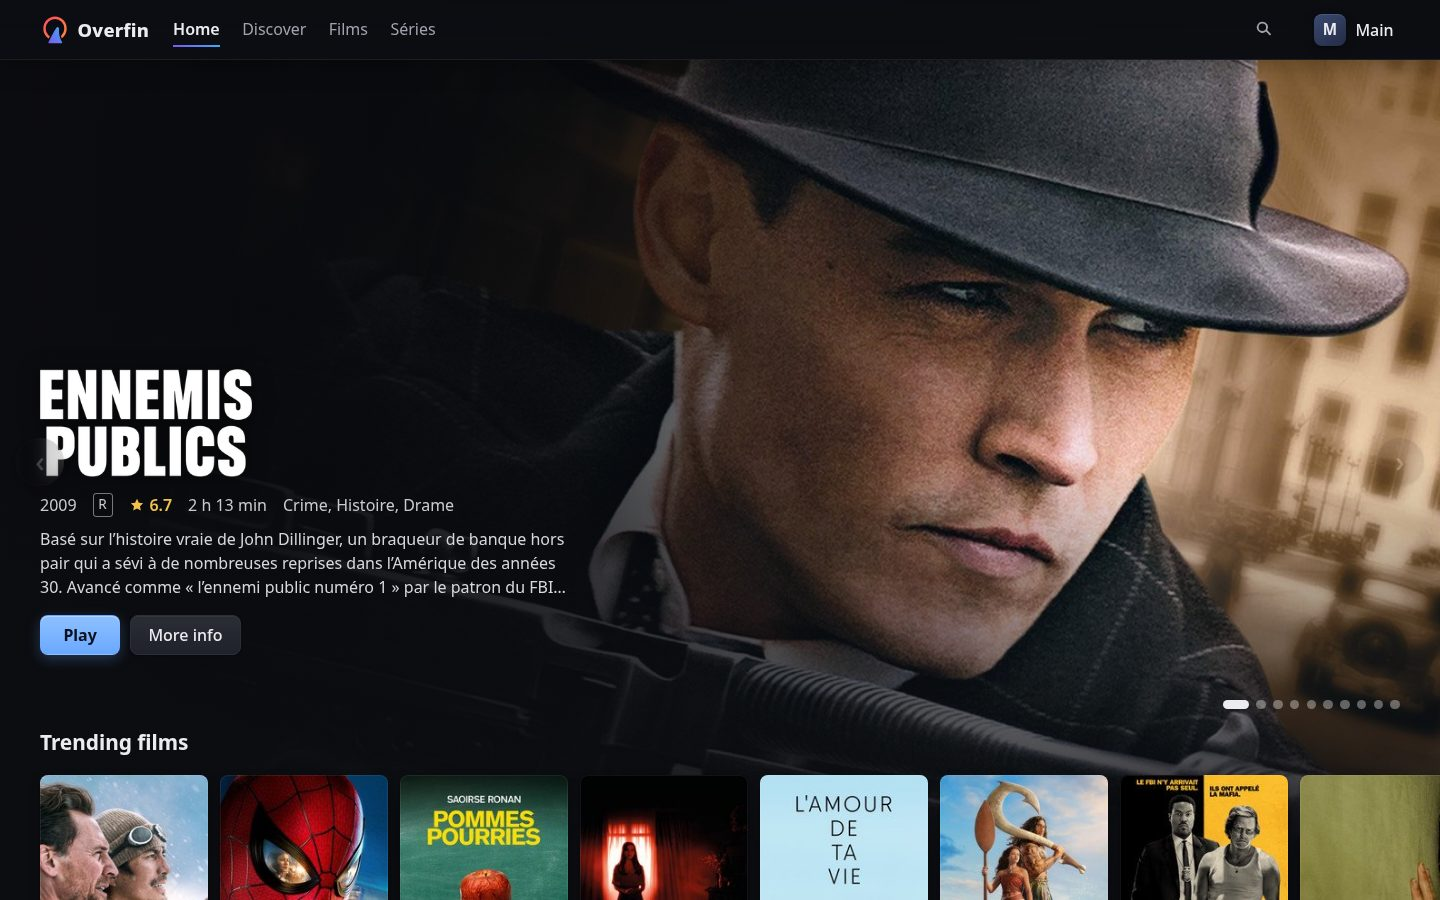
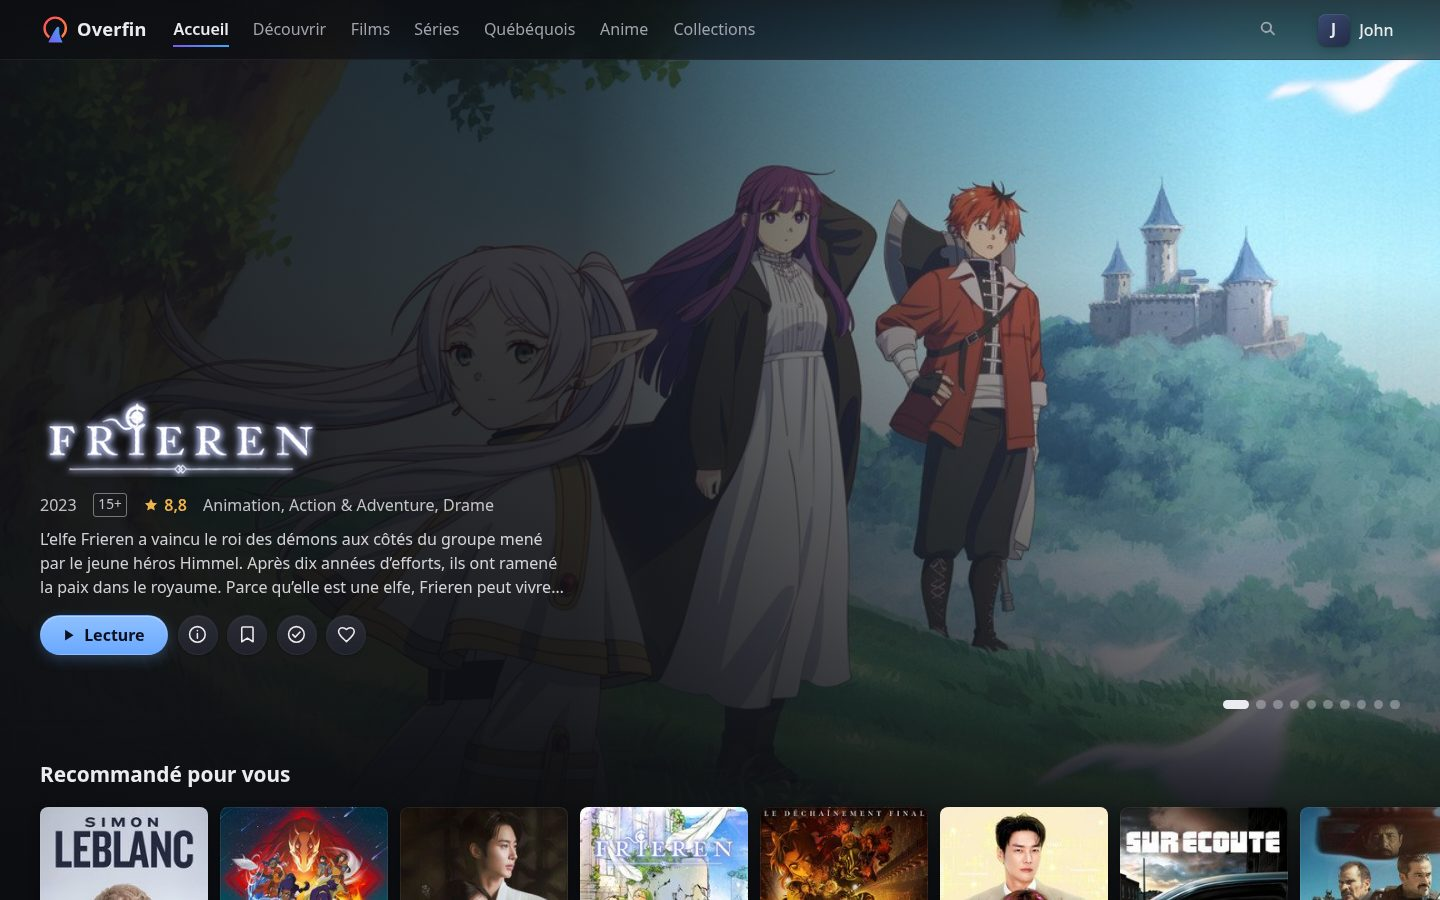
README screenshots retaken: home, a series' page, a category with its genre rows, the home on a phone

diff --git a/README.md b/README.md
@@ -24,12 +24,12 @@ behind your own proxy, with a Jellyfin you run yourself, or with your own
 identity provider: see [Running it](#running-it).
 
 <p>
-  <img src="docs/screenshots/home.jpg" alt="The home page: a slideshow of titles over rows of trending films" width="72%">
+  <img src="docs/screenshots/home.jpg" alt="The home page: a slideshow of titles over rows of recommendations" width="72%">
   <img src="docs/screenshots/phone.jpg" alt="The home page on a phone" width="24%">
 </p>
 <p>
-  <img src="docs/screenshots/film.jpg" alt="A film's page: poster, logo, rating, play and list buttons, cast" width="48%">
-  <img src="docs/screenshots/library.jpg" alt="A library: posters in a grid with sort and filters" width="48%">
+  <img src="docs/screenshots/film.jpg" alt="A series' page: poster, logo, rating, play and list buttons, its seasons" width="48%">
+  <img src="docs/screenshots/library.jpg" alt="A category: its genres to choose from, recently added, and a row per genre" width="48%">
 </p>
 
 ## What you get
